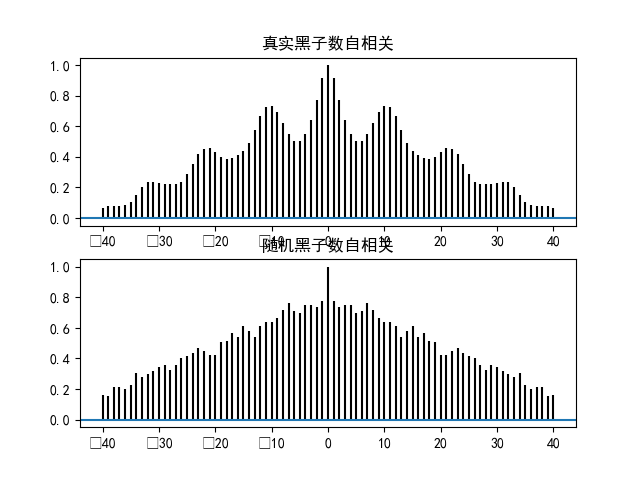
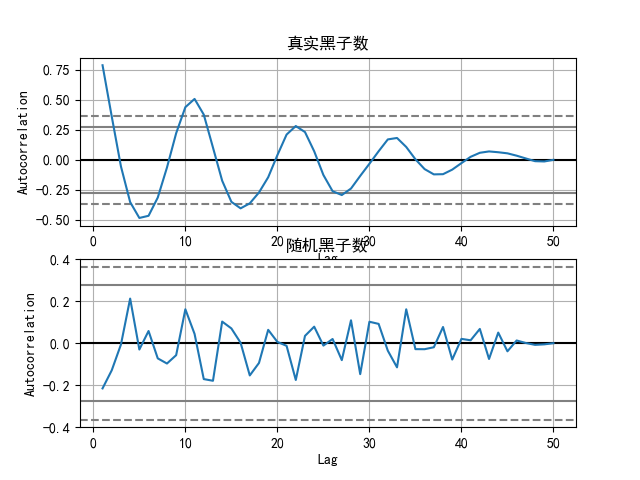
add autocorr

diff --git a/source/2check-random.py b/source/2check-random.py
@@ -6,7 +6,7 @@ import numpy as np
 
 #设置中文字体
 plt.rcParams['font.sans-serif']=['SimHei']
-
+plt.rcParams['axes.unicode_minus']=False
 DATA_DIR='../data/sample/'
 #固定随机数， 以便每次生成相同的随机数
 random.seed(10)
@@ -34,47 +34,22 @@ def sequence_chart():
     plt.show()
 
 def autocorr():
+    from pandas.plotting import autocorrelation_plot
     # get data
     dpath = os.path.join(DATA_DIR, '附录1.1.xls')
     data=pd.read_excel(dpath)
     # plot
     # print(data['黑子数'])
-    plt.subplot(2,1,1)
-    plt.acorr(data['黑子数'].astype('float'), maxlags=40)
-    plt.title('真实黑子数自相关')
+    fig, axes=plt.subplots(nrows=2, ncols=1)
+    autocorrelation_plot(data['黑子数'], ax=axes[0])
+    axes[0].set_title('真实黑子数')
 
     # 随机化黑子数
-    # for i in range(data.shape[0]):
-    #     data.iloc[i, 1]=random.randint(0, 200)
-    # x = np.random.randn(data.shape[0])
-    x=[np.random.rand() for i in range(data.shape[0])]
-    print(x)
-    random.shuffle(x)
-    plt.subplot(2,1,2)
-    plt.acorr(x, maxlags=40)
-    plt.title('随机黑子数自相关')
+    x=[random.randint(1, 200) for i in range(data.shape[0])]
+    autocorrelation_plot(x, ax=axes[1])
+    axes[1].set_title('随机黑子数')
     plt.savefig('../imgs/autocorr.png')
     plt.show()
-
-# def autocorr():
-#     # get data
-#     dpath = os.path.join(DATA_DIR, '附录1.1.xls')
-#     data=pd.read_excel(dpath)
-#     # plot
-#     # print(data['黑子数'])
-#     plt.subplot(2,1,1)
-#     plt.acorr(data['黑子数'].astype('float'), maxlags=40)
-#     plt.title('真实黑子数自相关')
-
-#     # 随机化黑子数
-#     data2=[]
-#     for i in range(data.shape[0]*10):
-#         data2.append(float(random.random()))
-#     plt.subplot(2,1,2)
-#     plt.acorr(data2, maxlags=40)
-#     plt.title('随机黑子数自相关')
-#     plt.savefig('../imgs/autocorr.png')
-#     plt.show()
 
 if __name__=='__main__':
     autocorr()
